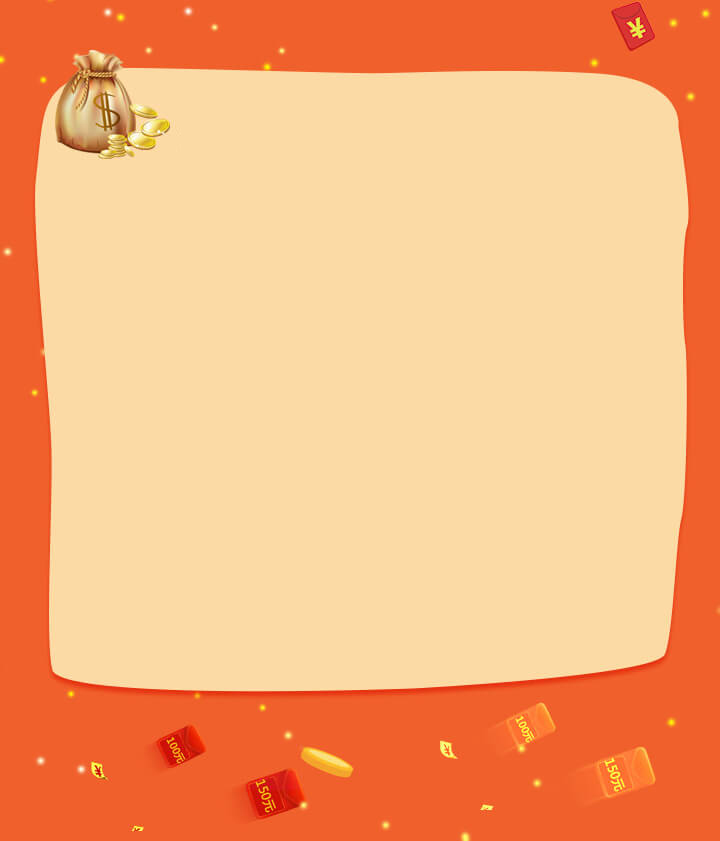
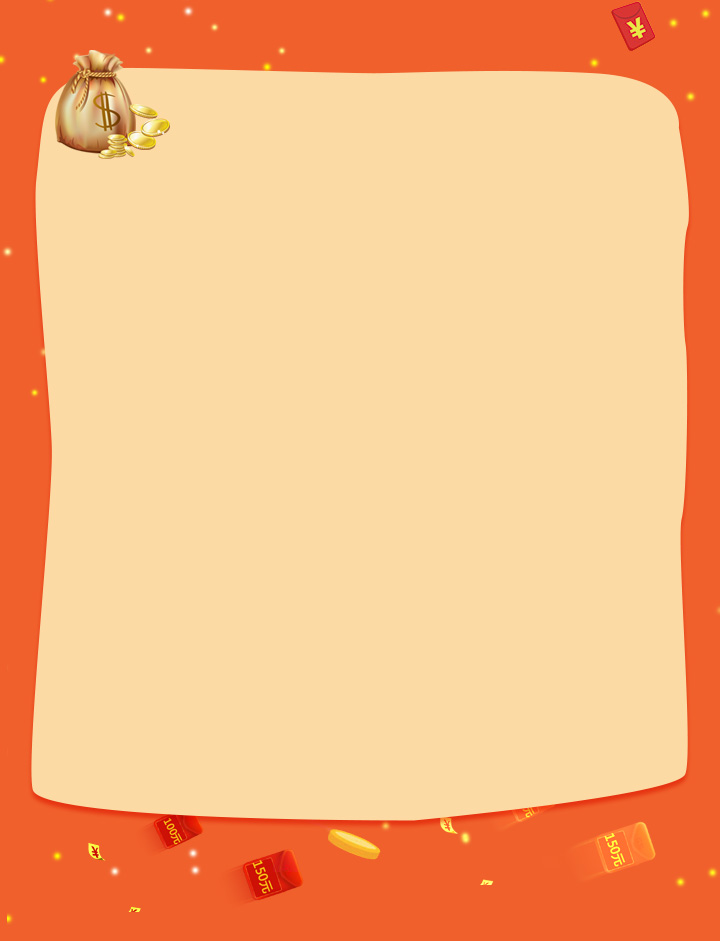
体验金落地页

diff --git a/app/styles/activity.less b/app/styles/activity.less
@@ -145,8 +145,8 @@
 
 .new-user {
   position: absolute;
-  bottom: 4.5rem;
-  left: 3.5rem;
+  bottom: 12%;
+  left: 12%;
   text-align: center;
   font-size: 2.5rem;
   color: #ffea00;
@@ -157,9 +157,9 @@
 
 .old-user {
   position: absolute;
-  bottom: 4.5rem;
+  bottom: 12%;
   text-align: center;
-  right: 3.5rem;
+  right: 12%;
   color: #fc0000;
   font-size: 2.5rem;
   p{
@@ -168,15 +168,22 @@
 }
 
 .landing-rule{
+  background-image: url("/images/activity/12.jpg");
+  background-size: 100% 100%;
   position: absolute;
-  top:4rem;
-  left:4rem;
-  right: 3rem;
+  left:0%;
+  right: 0%;
   h4{
-    margin-bottom: 0.5rem !important;
-    margin-left: 4rem;
+    margin-top:12%;
+    margin-bottom: 1rem !important;
+    margin-left: 25%;
   }
   p{
     margin-bottom: 0 !important;
+    padding-left: 10%;
+    padding-right: 10%;
+  }
+  p:last-child{
+    padding-bottom: 25%;
   }
 }

diff --git a/app/views/activity/experience-landing.html b/app/views/activity/experience-landing.html
@@ -11,7 +11,7 @@
     </div>
   </div>
   <div class="position-re">
-    <img src="/images/activity/12.jpg" width="100%">
+    <!-- <img src="/images/activity/12.jpg" width="100%"> -->
     <div class="landing-rule">
       <h4>活动规则</h4>
       <p>1.老用户充入任意金额现金，即可获得4000元体验金。 </p>
